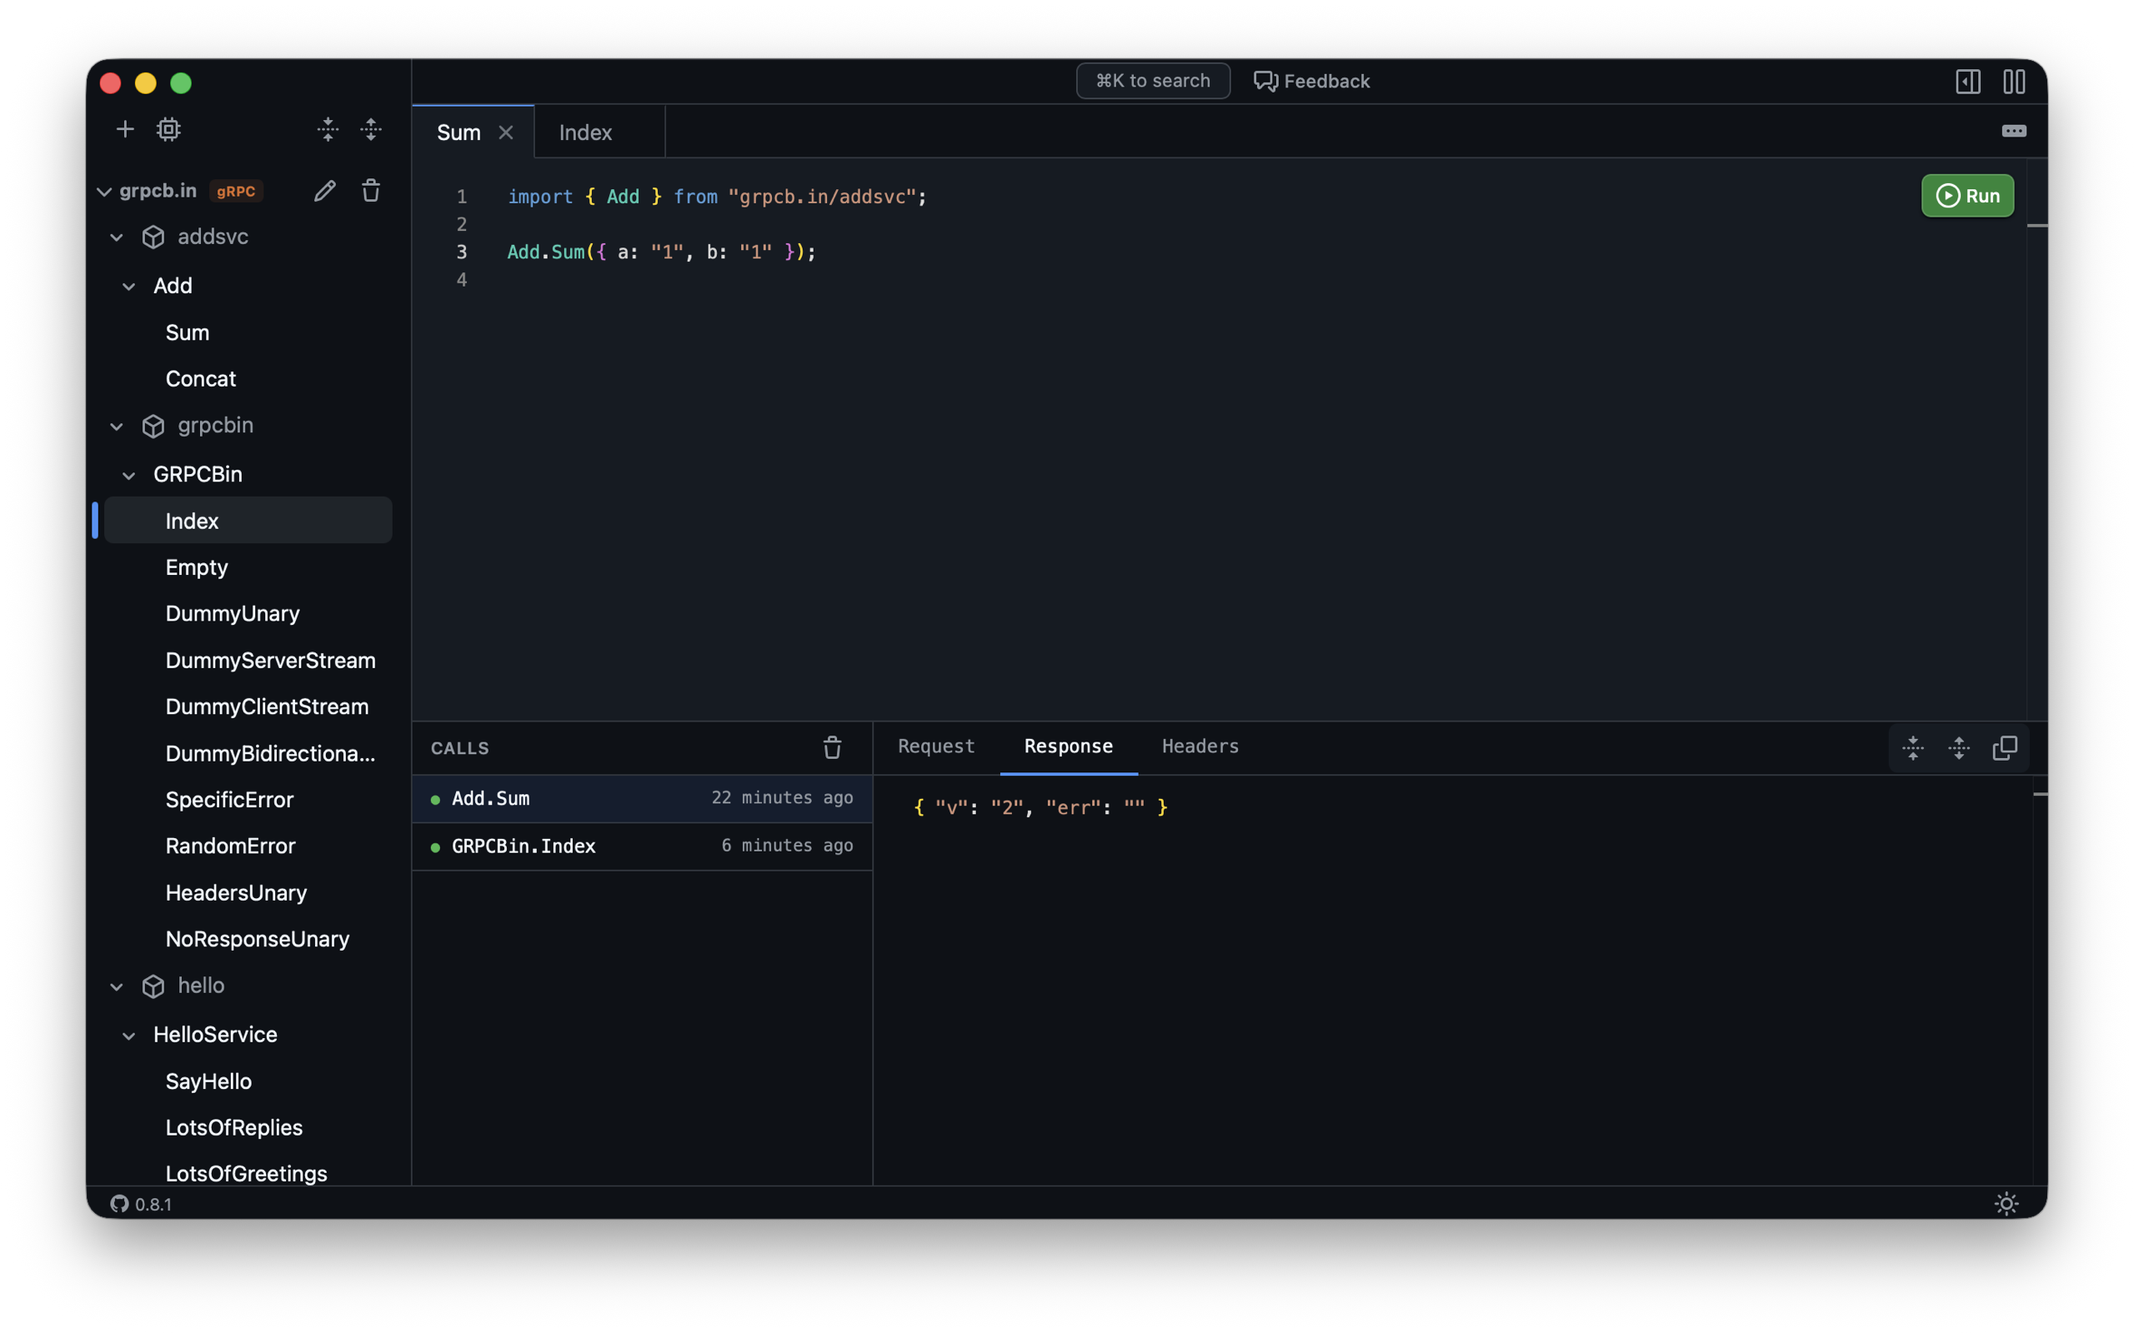
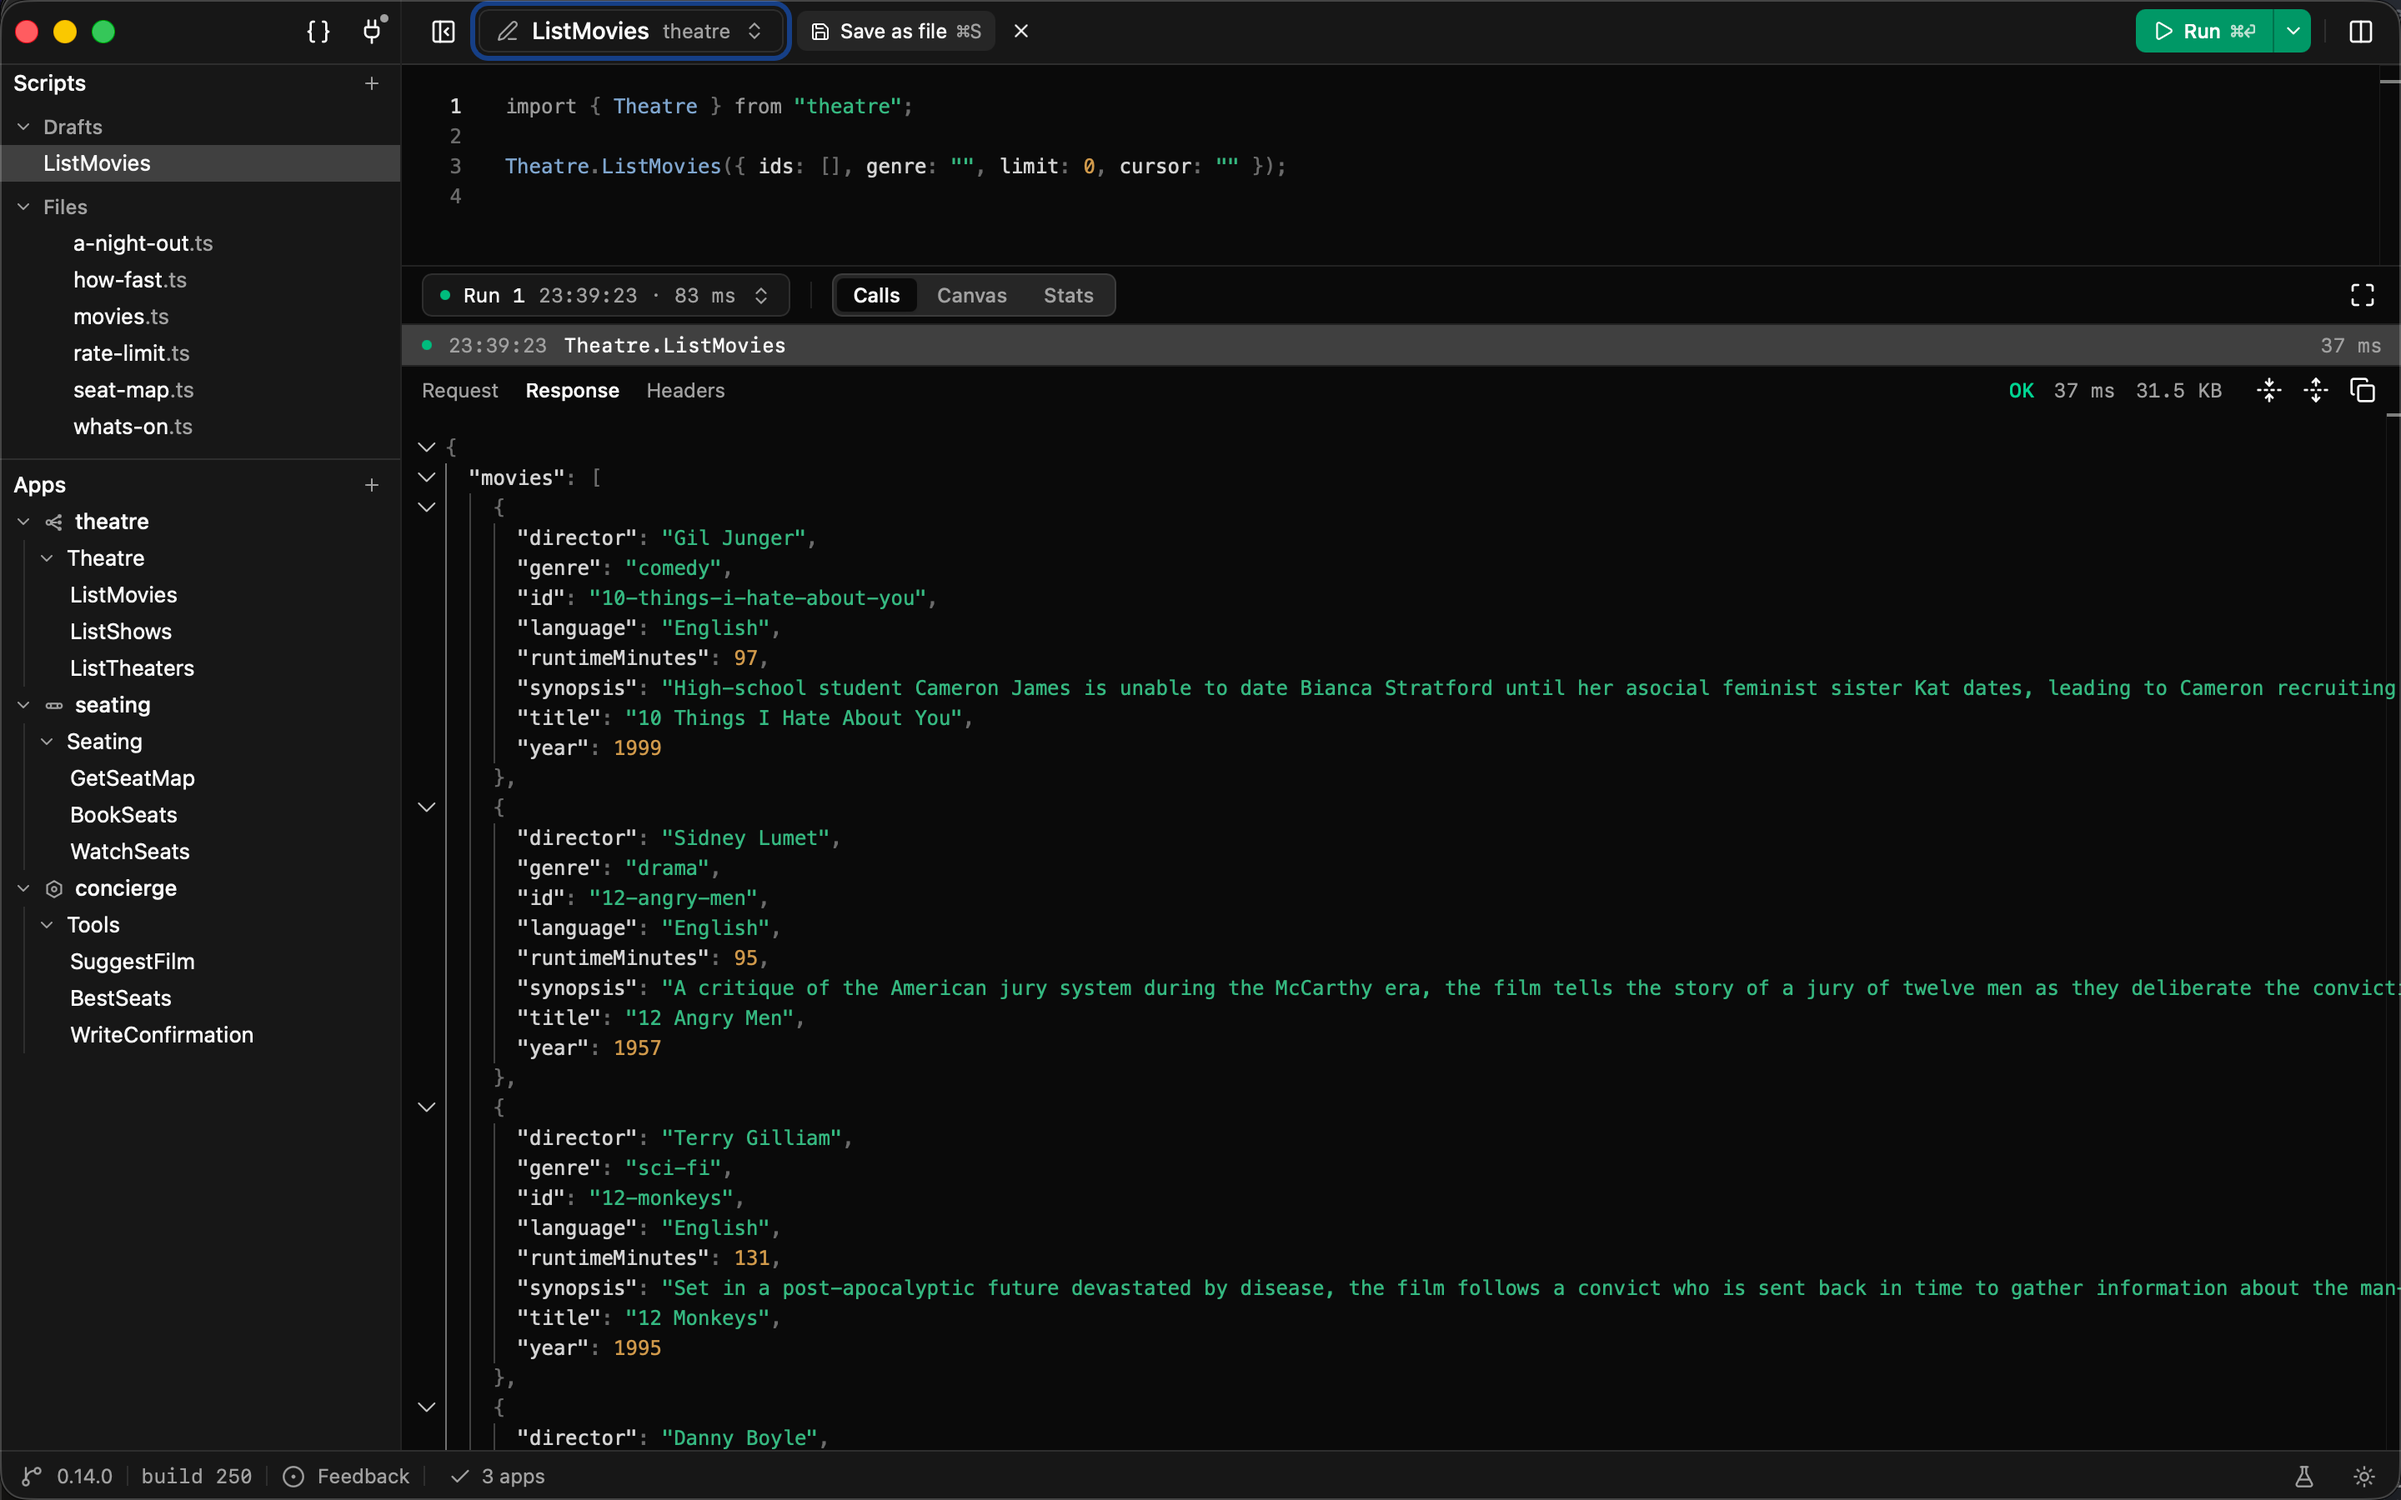
Redrew the README's diagram as the app's own map
The README's how-it-works.svg was the older picture — three surfaces on
the left, an agent and an approval gate on the right, coloured dots
standing in for the protocols — and its screenshot was 0.8.1, with a tab
strip, a search field in the command row and grpcb.in in the tree.
Neither says what Kaja is now.

The diagram is `KajaMap.tsx` ported stroke for stroke, the four protocol
marks included: an agent on the left, Kaja drawn as its own canvas in the
middle, the four protocols on the right, with MCP in and CALLS out on the
wires. Same reading order the empty state and the website already have,
so the three are one picture. It is a static SVG with a
prefers-color-scheme block rather than tokens, because GitHub loads it as
an image; the protocol cards are 16px wider than the app's, which is what
keeps `OpenAPI schema` off itself in a system-ui face.

The screenshot is what scripts/demo photographs at the run step — the
tree carrying an app of each of three protocols, drafts above files, the
call Kaja wrote, and the run's log and response under it — which is the
most of the app one window shows.

Claude-Session: https://claude.ai/code/session_01B5LZn9aXdewsAXsqyhHzyq

diff --git a/AGENTS.md b/AGENTS.md
@@ -83,7 +83,7 @@ docs/
 - **The runtime is an npm package with side effects** — it takes over the context menu, watches for drag regions, and warns to the console when it finds no host. The web serves the same bundle, so `ui/src/wails.ts` reaches both it and the generated bindings through `import()`: esbuild keeps them in the bundle and evaluates them only when something asks, which on the web is never. `isWailsEnvironment()` asks the host for its message channel rather than for `window.go`, which v3 does not define.
 - **The native menu carries what makes something, and nothing about what is on screen.** File is New Script (⌘N) and New App…, each an event the window turns into the same call its own **+** makes. A menu item is enabled wherever the window is, so anything conditional on what is open — Save above all, which was a draft's save sheet and did nothing on any other view — belongs on the command row or the row's own menu, where its absence is the answer. Every shortcut a window states is the window's own (`App.tsx`'s keydown), so it works in a browser too; the menu's accelerator is macOS taking the same key first.
 - **A development desktop build serves `frontend/dist` off disk** (`assets_development.go`, `KAJA_FRONTEND_DIR`), so a UI change is `⌘R` rather than a rebuild of the binary it would otherwise be embedded in. The Wails watcher restarts the app on Go changes alone.
-- **`scripts/demo` photographs the shipped app for the App Store**, so it drives `/Applications/Kaja.app` and stages a workspace in the sandbox container `appSupportDir` answers with, moving the real one aside and back. **It navigates by `⌘P` alone**: the window is a webview, so there is no control to address by name and a coordinate rots with the next layout change, while the finder reaches every file, call, Variables and the MCP page. The finder's highlight starts on the *previous* place and only falls to the first row once the query has narrowed the list to one, so **every query has to match exactly one destination** — which is why a filename is typed with its extension, `movies` being inside `ListMovies`. The window is sized **1440×900** because that is an accepted screenshot size at 1x and the largest accepted one at 2x, so one size covers a Retina machine and a machine without one. **Every shot is then made opaque**: App Store Connect refuses a screenshot carrying an alpha channel and `screencapture` writes one into every PNG it takes, even a region of the screen that is opaque throughout — neither it nor `sips` can drop one, so the pixels are drawn into an opaque bitmap by a Swift helper the script compiles and stamps into the temp directory.
+- **`scripts/demo` photographs the shipped app for the App Store**, so it drives `/Applications/Kaja.app` and stages a workspace in the sandbox container `appSupportDir` answers with, moving the real one aside and back. **It navigates by `⌘P` alone**: the window is a webview, so there is no control to address by name and a coordinate rots with the next layout change, while the finder reaches every file, call, Variables and the MCP page. The finder's highlight starts on the *previous* place and only falls to the first row once the query has narrowed the list to one, so **every query has to match exactly one destination** — which is why a filename is typed with its extension, `movies` being inside `ListMovies`. The window is sized **1440×900** because that is an accepted screenshot size at 1x and the largest accepted one at 2x, so one size covers a Retina machine and a machine without one. **Every shot is then made opaque**: App Store Connect refuses a screenshot carrying an alpha channel and `screencapture` writes one into every PNG it takes, even a region of the screen that is opaque throughout — neither it nor `sips` can drop one, so the pixels are drawn into an opaque bitmap by a Swift helper the script compiles and stamps into the temp directory. **The README's screenshot and the website's poster crops come out of that set**, so both are refreshed by running it rather than photographed by hand.
 
 ### Code generation
 
@@ -406,7 +406,7 @@ The **log** is the flat audit log — one row per call, in wall order, always co
 
 **With no apps it is the cold start, and it names the two doors into Kaja** (`FirstAppBlankslate.tsx`): *Add an app. Connect an agent.* Two full stops rather than an "or" — an agent is additive, and it cannot add an app for you, which is why adding one is the filled button and the heading says it first. The third line says an agent is optional (Kaja explores an API on its own) and is plain text, because there is nowhere useful to send you.
 
-- **The map is drawn here and nowhere else** (`KajaMap.tsx`): an agent on the left, Kaja as its own canvas in the middle, the four protocols on the right, with `MCP` in and `CALLS` out on the wires. It is the website's map with its colour and its screenshot dropped — **strokes only, three weights**: `border` for the wires and the canvas's own blocks, `muted-foreground` for the node frames, `foreground` for names and marks. This is the one screen with nothing else to say, so it is the one screen the whole flow belongs on; a second copy on the MCP page would be a picture the reader has already read.
+- **The map is drawn here and nowhere else** (`KajaMap.tsx`): an agent on the left, Kaja as its own canvas in the middle, the four protocols on the right, with `MCP` in and `CALLS` out on the wires. It is the website's map with its colour and its screenshot dropped — **strokes only, three weights**: `border` for the wires and the canvas's own blocks, `muted-foreground` for the node frames, `foreground` for names and marks. This is the one screen with nothing else to say, so it is the one screen the whole flow belongs on; a second copy on the MCP page would be a picture the reader has already read. **Outside the app it is ported, never redrawn** — the website's hero and `docs/how-it-works.svg` are this file stroke for stroke, the four marks included, each in the palette its page has; the README's is one static SVG carrying a `prefers-color-scheme` block, because GitHub loads it as an image rather than as markup it can theme. A change here is a change in all three.
 - **The two actions sit under the ends the map already has** — `Connect an agent` under the agent, `New app` under the protocols (`AGENT_END`, `APPS_END`) — so a button lands where the eye is rather than in a row of its own. `Connect an agent` carries the `Plug` from the sidebar's band, so the button and the place it takes you share a mark, and it is absent where the build has no MCP server to point one at.
 - **A read-only configuration keeps the map and the agent** and says where apps come from instead of offering a button for one.
 

diff --git a/README.md b/README.md
@@ -37,12 +37,12 @@
 </p>
 
 <p align="center">
-  <img src="docs/how-it-works.svg" alt="gRPC, OpenAPI and MCP apps on one side, an agent writing scripts and you approving writes on the other, all meeting in Kaja" width="840" />
+  <img src="docs/how-it-works.svg" alt="An agent writes and runs a script over MCP; every call it makes lands on Kaja's canvas, and Kaja speaks gRPC, OpenAPI, MCP and Twirp to your apps" width="840" />
 </p>
 
 <p align="center">
   <a href="https://demo.kaja.tools">
-    <img src="docs/screenshot-1.png" alt="Kaja running a script against a gRPC app" width="820" />
+    <img src="docs/screenshot-1.png" alt="Kaja with a script open, the calls it made and the response below it" width="820" />
   </a>
 </p>
 
